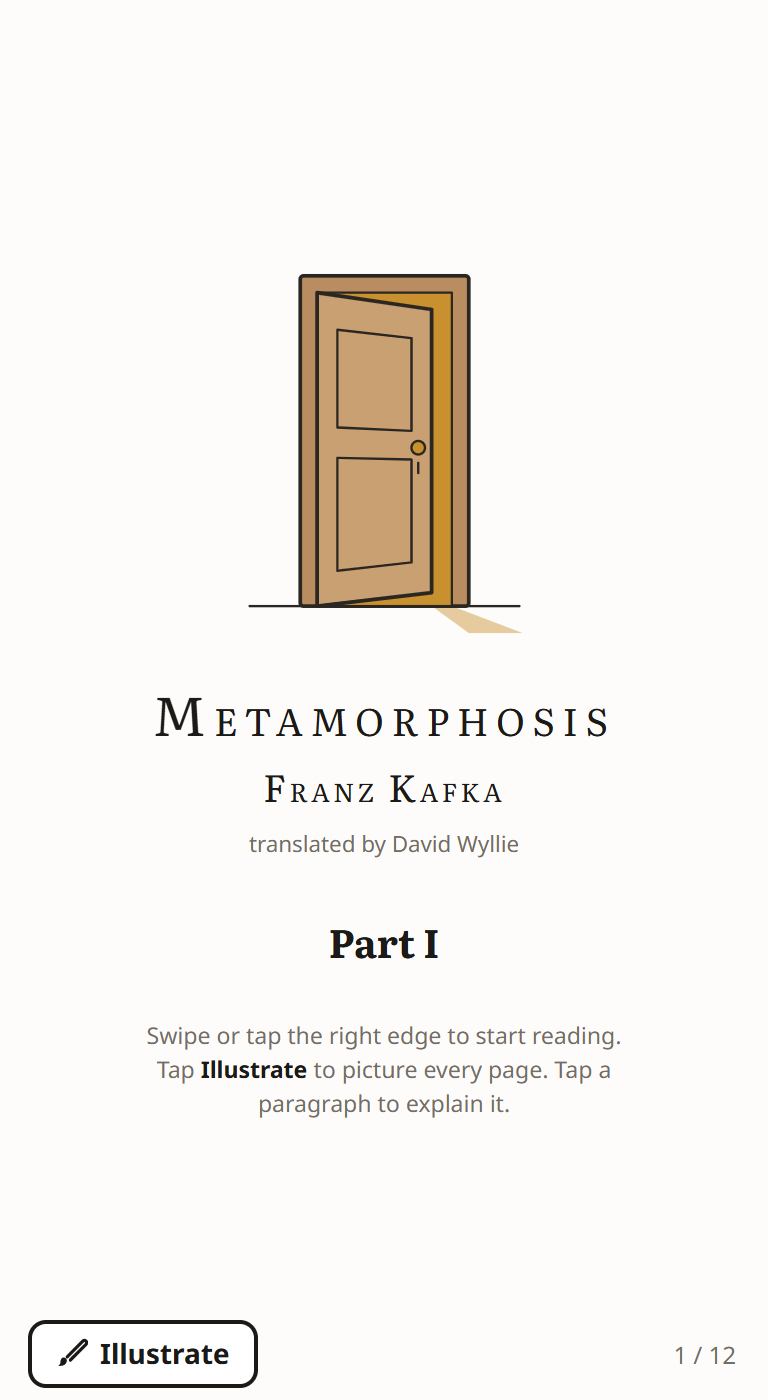
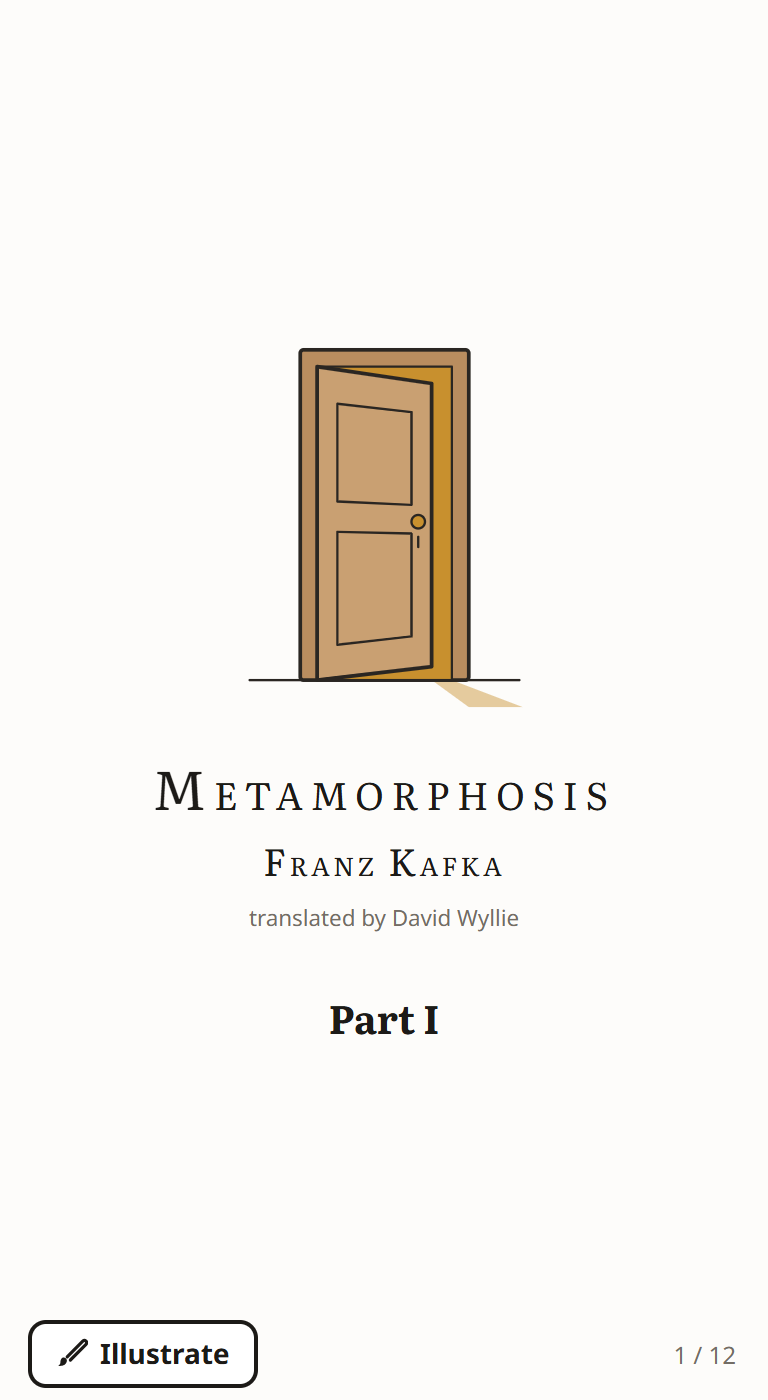
Remove the instruction lines from the title page and the end of the excerpt
The how-to text now lives under Controls in the How it works sheet; the
excerpt ends with a short rule.

Changed region(s): [[0.1875, 0.5529, 0.8125, 0.7986], [0.1875, 0.1843, 0.7812, 0.5221], [0.5, 0.3071, 0.5625, 0.3379]]

diff --git a/dist/reader.html b/dist/reader.html
@@ -118,12 +118,9 @@ button { font: inherit; color: inherit; }
 .titlepage .au { font-variant: small-caps; letter-spacing: .08em; font-size: 1.05em; }
 .titlepage .tr { font-family: var(--ui); font-size: .62em; color: var(--muted); }
 .titlepage .part { margin-top: 1em; font-weight: 700; font-size: 1.1em; }
-.titlepage .how { margin: 1.4em 0 0; max-width: 21em; font-family: var(--ui); font-size: .64em; line-height: 1.5; color: var(--muted); text-align: center; }
-.titlepage .how b { color: var(--ink); }
 
-.endmark { break-inside: avoid; text-align: center; text-indent: 0; font-family: var(--ui); font-size: .7em; color: var(--muted); padding-top: 1.4em; line-height: 1.5; }
-.endmark::before { content: ""; display: block; width: 3em; margin: 0 auto 1em; border-top: 1.5px solid var(--rule); }
-.endmark p { margin: .3em 0; }
+.endmark { break-inside: avoid; padding-top: 1.4em; }
+.endmark::before { content: ""; display: block; width: 3em; margin: 0 auto; border-top: 1.5px solid var(--rule); }
 
 /* ---------- pictures */
 .fig { margin: 0; padding: 10px 0; box-sizing: border-box; display: flex; flex-direction: column; break-inside: avoid; text-indent: 0; }
@@ -771,11 +768,9 @@ if (typeof module !== 'undefined') module.exports = Art;
   const titlePage = () => `<section class="titlepage" style="height:${S.H}px">${DOOR}` +
     `<div class="bk">${esc(D.meta.title)}</div><div class="au">${esc(D.meta.author)}</div>` +
     `<div class="tr">translated by ${esc(D.meta.translator)}</div>` +
-    `<div class="part">Part ${esc(D.meta.part)}</div>` +
-    '<p class="how">Swipe or tap the right edge to start reading. Tap <b>Illustrate</b> to picture every page. ' +
-    'Tap a paragraph to explain it.</p></section>';
-  const ENDING = `<div class="endmark"><p>End of the excerpt (${esc(D.meta.excerpt)}).</p>` +
-    '<p>Tap Illustrate to picture every page. Tap the top of the page for the menu: text size, night mode, How it works, Credits.</p></div>';
+    `<div class="part">Part ${esc(D.meta.part)}</div></section>`;
+  // A short rule marks the end of the excerpt, like the end of a chapter.
+  const ENDING = '<div class="endmark" aria-hidden="true"></div>';
 
   function renderBase() {
     flow.innerHTML = titlePage();
@@ -1114,10 +1109,15 @@ if (typeof module !== 'undefined') module.exports = Art;
     });
     const good = checks.filter(c => c.ok).length;
     openSheet('How it works', `
+      <section><h3>Controls</h3><ul>
+        <li>Swipe, or tap the left or right edge, to turn pages.</li>
+        <li><b>Illustrate</b> pictures every page; tap it again to hide the pictures. Tap a picture to see the words it is drawn from.</li>
+        <li>Tap a paragraph, then <b>Explain</b>.</li>
+      </ul></section>
       <section><h3>When you tap Illustrate</h3><ol>
         <li><b>Read.</b> The app looks up the scene specs for the whole excerpt and, on the page you are on, highlights the words each picture is drawn from.</li>
         <li><b>Draw.</b> A small SVG engine in this page draws each spec. No image model runs while you read.</li>
-        <li><b>Place.</b> A layout pass puts every picture on the same page as the sentence it shows, and redoes it whenever the screen or text size changes.</li>
+        <li><b>Place.</b> A layout pass puts every picture right after the text it shows, on the same page whenever there is room, and redoes it whenever the screen or text size changes.</li>
       </ol></section>
       <section><h3>Left without pictures</h3><ul>${Object.values(D.skips).map(r => `<li>${refs(r)}</li>`).join('')}</ul></section>
       <section><h3>Where the AI comes in</h3>

diff --git a/index.html b/index.html
@@ -126,12 +126,9 @@ button { font: inherit; color: inherit; }
 .titlepage .au { font-variant: small-caps; letter-spacing: .08em; font-size: 1.05em; }
 .titlepage .tr { font-family: var(--ui); font-size: .62em; color: var(--muted); }
 .titlepage .part { margin-top: 1em; font-weight: 700; font-size: 1.1em; }
-.titlepage .how { margin: 1.4em 0 0; max-width: 21em; font-family: var(--ui); font-size: .64em; line-height: 1.5; color: var(--muted); text-align: center; }
-.titlepage .how b { color: var(--ink); }
 
-.endmark { break-inside: avoid; text-align: center; text-indent: 0; font-family: var(--ui); font-size: .7em; color: var(--muted); padding-top: 1.4em; line-height: 1.5; }
-.endmark::before { content: ""; display: block; width: 3em; margin: 0 auto 1em; border-top: 1.5px solid var(--rule); }
-.endmark p { margin: .3em 0; }
+.endmark { break-inside: avoid; padding-top: 1.4em; }
+.endmark::before { content: ""; display: block; width: 3em; margin: 0 auto; border-top: 1.5px solid var(--rule); }
 
 /* ---------- pictures */
 .fig { margin: 0; padding: 10px 0; box-sizing: border-box; display: flex; flex-direction: column; break-inside: avoid; text-indent: 0; }
@@ -779,11 +776,9 @@ if (typeof module !== 'undefined') module.exports = Art;
   const titlePage = () => `<section class="titlepage" style="height:${S.H}px">${DOOR}` +
     `<div class="bk">${esc(D.meta.title)}</div><div class="au">${esc(D.meta.author)}</div>` +
     `<div class="tr">translated by ${esc(D.meta.translator)}</div>` +
-    `<div class="part">Part ${esc(D.meta.part)}</div>` +
-    '<p class="how">Swipe or tap the right edge to start reading. Tap <b>Illustrate</b> to picture every page. ' +
-    'Tap a paragraph to explain it.</p></section>';
-  const ENDING = `<div class="endmark"><p>End of the excerpt (${esc(D.meta.excerpt)}).</p>` +
-    '<p>Tap Illustrate to picture every page. Tap the top of the page for the menu: text size, night mode, How it works, Credits.</p></div>';
+    `<div class="part">Part ${esc(D.meta.part)}</div></section>`;
+  // A short rule marks the end of the excerpt, like the end of a chapter.
+  const ENDING = '<div class="endmark" aria-hidden="true"></div>';
 
   function renderBase() {
     flow.innerHTML = titlePage();
@@ -1122,10 +1117,15 @@ if (typeof module !== 'undefined') module.exports = Art;
     });
     const good = checks.filter(c => c.ok).length;
     openSheet('How it works', `
+      <section><h3>Controls</h3><ul>
+        <li>Swipe, or tap the left or right edge, to turn pages.</li>
+        <li><b>Illustrate</b> pictures every page; tap it again to hide the pictures. Tap a picture to see the words it is drawn from.</li>
+        <li>Tap a paragraph, then <b>Explain</b>.</li>
+      </ul></section>
       <section><h3>When you tap Illustrate</h3><ol>
         <li><b>Read.</b> The app looks up the scene specs for the whole excerpt and, on the page you are on, highlights the words each picture is drawn from.</li>
         <li><b>Draw.</b> A small SVG engine in this page draws each spec. No image model runs while you read.</li>
-        <li><b>Place.</b> A layout pass puts every picture on the same page as the sentence it shows, and redoes it whenever the screen or text size changes.</li>
+        <li><b>Place.</b> A layout pass puts every picture right after the text it shows, on the same page whenever there is room, and redoes it whenever the screen or text size changes.</li>
       </ol></section>
       <section><h3>Left without pictures</h3><ul>${Object.values(D.skips).map(r => `<li>${refs(r)}</li>`).join('')}</ul></section>
       <section><h3>Where the AI comes in</h3>

diff --git a/src/reader.js b/src/reader.js
@@ -62,11 +62,9 @@
   const titlePage = () => `<section class="titlepage" style="height:${S.H}px">${DOOR}` +
     `<div class="bk">${esc(D.meta.title)}</div><div class="au">${esc(D.meta.author)}</div>` +
     `<div class="tr">translated by ${esc(D.meta.translator)}</div>` +
-    `<div class="part">Part ${esc(D.meta.part)}</div>` +
-    '<p class="how">Swipe or tap the right edge to start reading. Tap <b>Illustrate</b> to picture every page. ' +
-    'Tap a paragraph to explain it.</p></section>';
-  const ENDING = `<div class="endmark"><p>End of the excerpt (${esc(D.meta.excerpt)}).</p>` +
-    '<p>Tap Illustrate to picture every page. Tap the top of the page for the menu: text size, night mode, How it works, Credits.</p></div>';
+    `<div class="part">Part ${esc(D.meta.part)}</div></section>`;
+  // A short rule marks the end of the excerpt, like the end of a chapter.
+  const ENDING = '<div class="endmark" aria-hidden="true"></div>';
 
   function renderBase() {
     flow.innerHTML = titlePage();
@@ -405,10 +403,15 @@
     });
     const good = checks.filter(c => c.ok).length;
     openSheet('How it works', `
+      <section><h3>Controls</h3><ul>
+        <li>Swipe, or tap the left or right edge, to turn pages.</li>
+        <li><b>Illustrate</b> pictures every page; tap it again to hide the pictures. Tap a picture to see the words it is drawn from.</li>
+        <li>Tap a paragraph, then <b>Explain</b>.</li>
+      </ul></section>
       <section><h3>When you tap Illustrate</h3><ol>
         <li><b>Read.</b> The app looks up the scene specs for the whole excerpt and, on the page you are on, highlights the words each picture is drawn from.</li>
         <li><b>Draw.</b> A small SVG engine in this page draws each spec. No image model runs while you read.</li>
-        <li><b>Place.</b> A layout pass puts every picture on the same page as the sentence it shows, and redoes it whenever the screen or text size changes.</li>
+        <li><b>Place.</b> A layout pass puts every picture right after the text it shows, on the same page whenever there is room, and redoes it whenever the screen or text size changes.</li>
       </ol></section>
       <section><h3>Left without pictures</h3><ul>${Object.values(D.skips).map(r => `<li>${refs(r)}</li>`).join('')}</ul></section>
       <section><h3>Where the AI comes in</h3>

diff --git a/src/reader.css b/src/reader.css
@@ -113,12 +113,9 @@ button { font: inherit; color: inherit; }
 .titlepage .au { font-variant: small-caps; letter-spacing: .08em; font-size: 1.05em; }
 .titlepage .tr { font-family: var(--ui); font-size: .62em; color: var(--muted); }
 .titlepage .part { margin-top: 1em; font-weight: 700; font-size: 1.1em; }
-.titlepage .how { margin: 1.4em 0 0; max-width: 21em; font-family: var(--ui); font-size: .64em; line-height: 1.5; color: var(--muted); text-align: center; }
-.titlepage .how b { color: var(--ink); }
 
-.endmark { break-inside: avoid; text-align: center; text-indent: 0; font-family: var(--ui); font-size: .7em; color: var(--muted); padding-top: 1.4em; line-height: 1.5; }
-.endmark::before { content: ""; display: block; width: 3em; margin: 0 auto 1em; border-top: 1.5px solid var(--rule); }
-.endmark p { margin: .3em 0; }
+.endmark { break-inside: avoid; padding-top: 1.4em; }
+.endmark::before { content: ""; display: block; width: 3em; margin: 0 auto; border-top: 1.5px solid var(--rule); }
 
 /* ---------- pictures */
 .fig { margin: 0; padding: 10px 0; box-sizing: border-box; display: flex; flex-direction: column; break-inside: avoid; text-indent: 0; }
